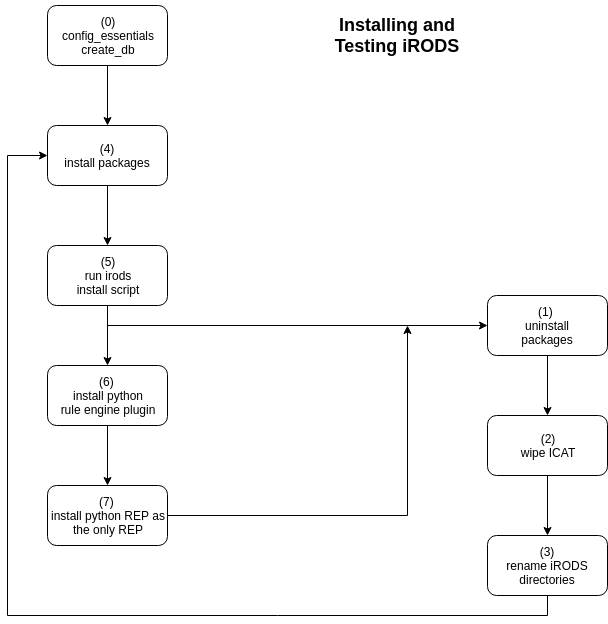
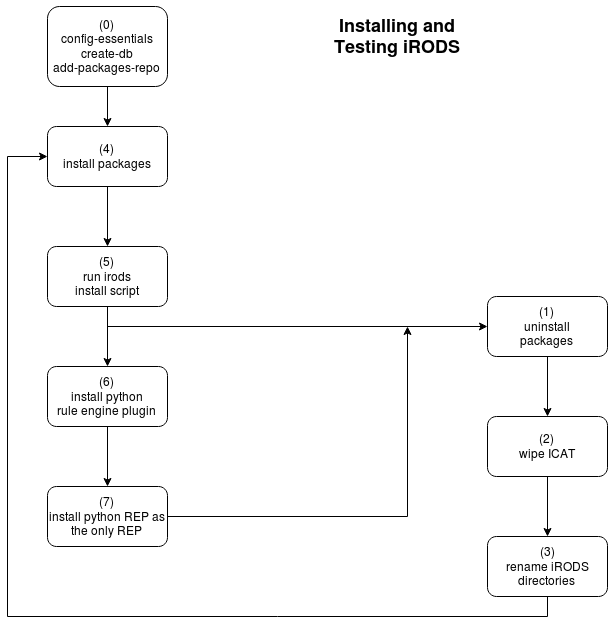
Update intro docs & drawing

diff --git a/irods_install.md b/irods_install.md
@@ -8,18 +8,18 @@ A docker container can be used, but the first steps must be the installation of 
 
 ```
 $ docker run -it ubuntu:16.04
-(container) /# apt update &&  apt install git
-(container) /# git clone http://github.com/d-w-moore/ubuntu_irods_install && cd  ubuntu_irods_install
+(container) /# apt update &&  apt install -y git sudo
+(container) /# git clone http://github.com/d-w-moore/ubuntu_irods_installer && cd ubuntu_irods_installer
 ```
 We can then run through the phases in the diagram.
 
   - install prerequisites and set up `ICAT` database
   ```
-  (container) /ubuntu_irods_install# ./install.sh --w='config-essentials create-db' 0
+  (container) /ubuntu_irods_install# ./install.sh --w='config-essentials create-db add-package-repo' 0
   ```
   - install and set up iRODS
   ```
-  (container) /ubuntu_irods_install# ./install.sh --w='config-essentials -r 4 5
+  (container) /ubuntu_irods_install# ./install.sh -r 4 5
   ```
   - The container now has a running instance of the iRODS server.  We can become the `irods` (service account) user and issue an icommand of our choice, to test:
   ```
